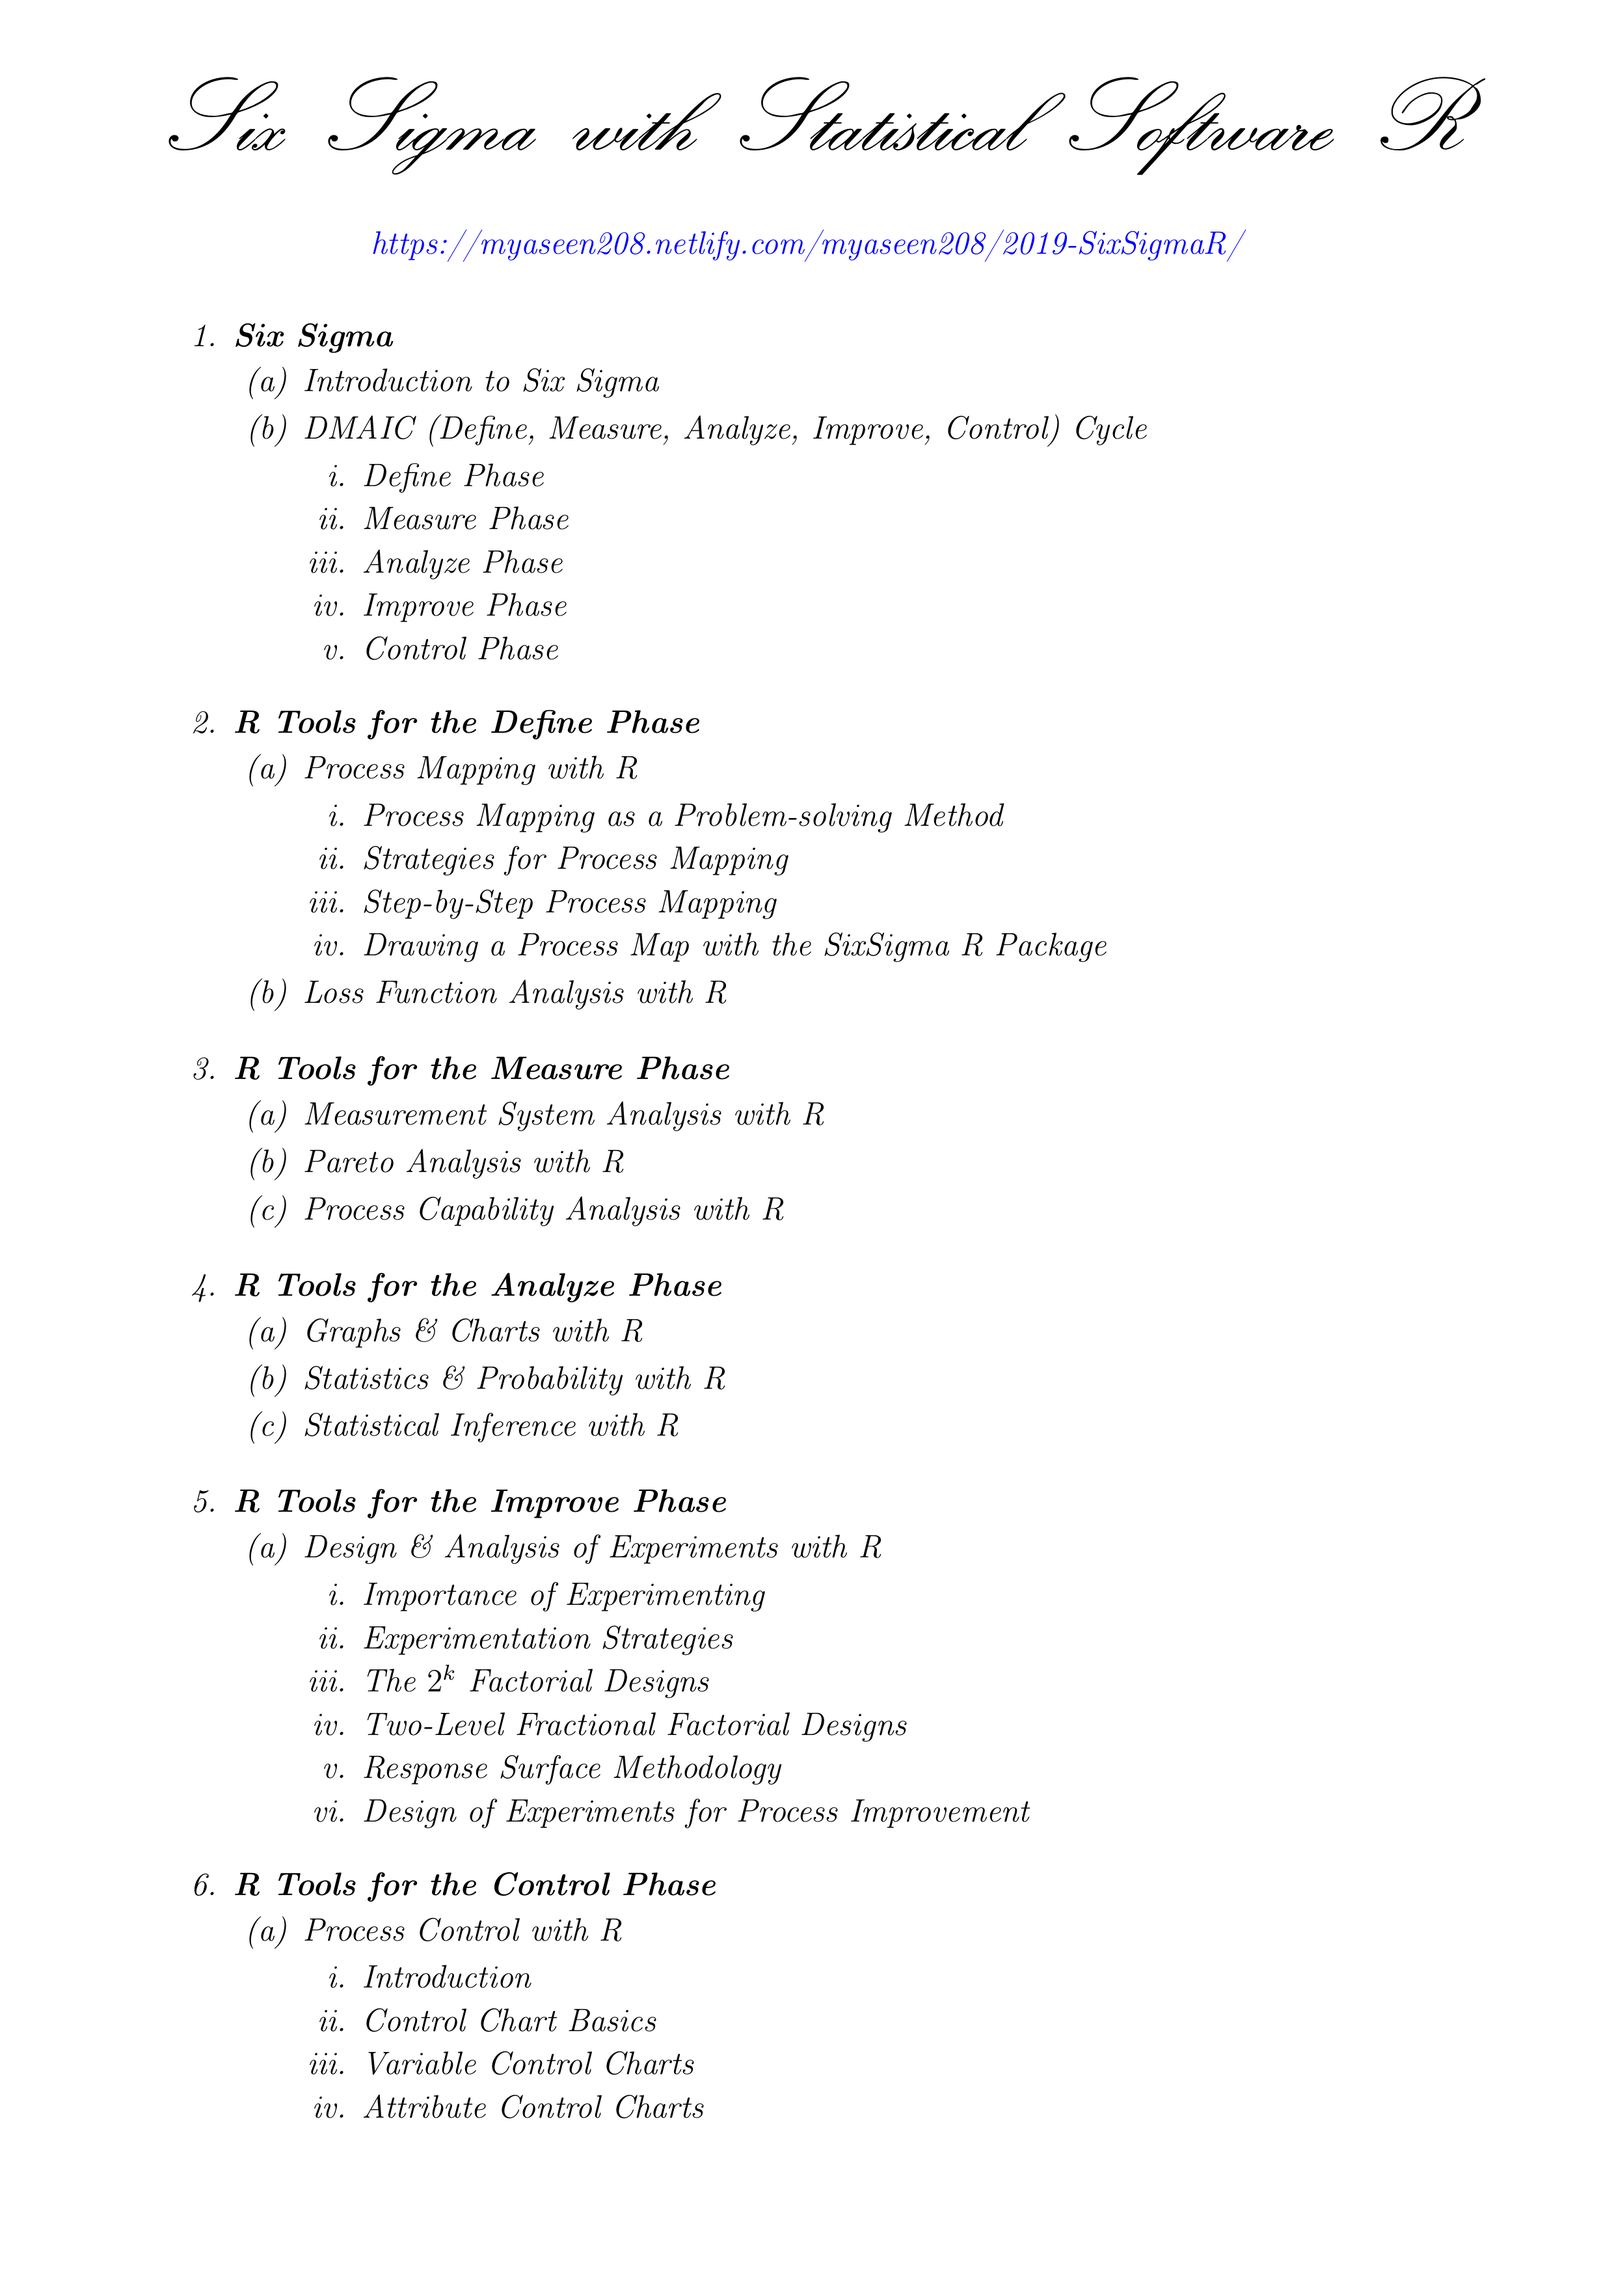
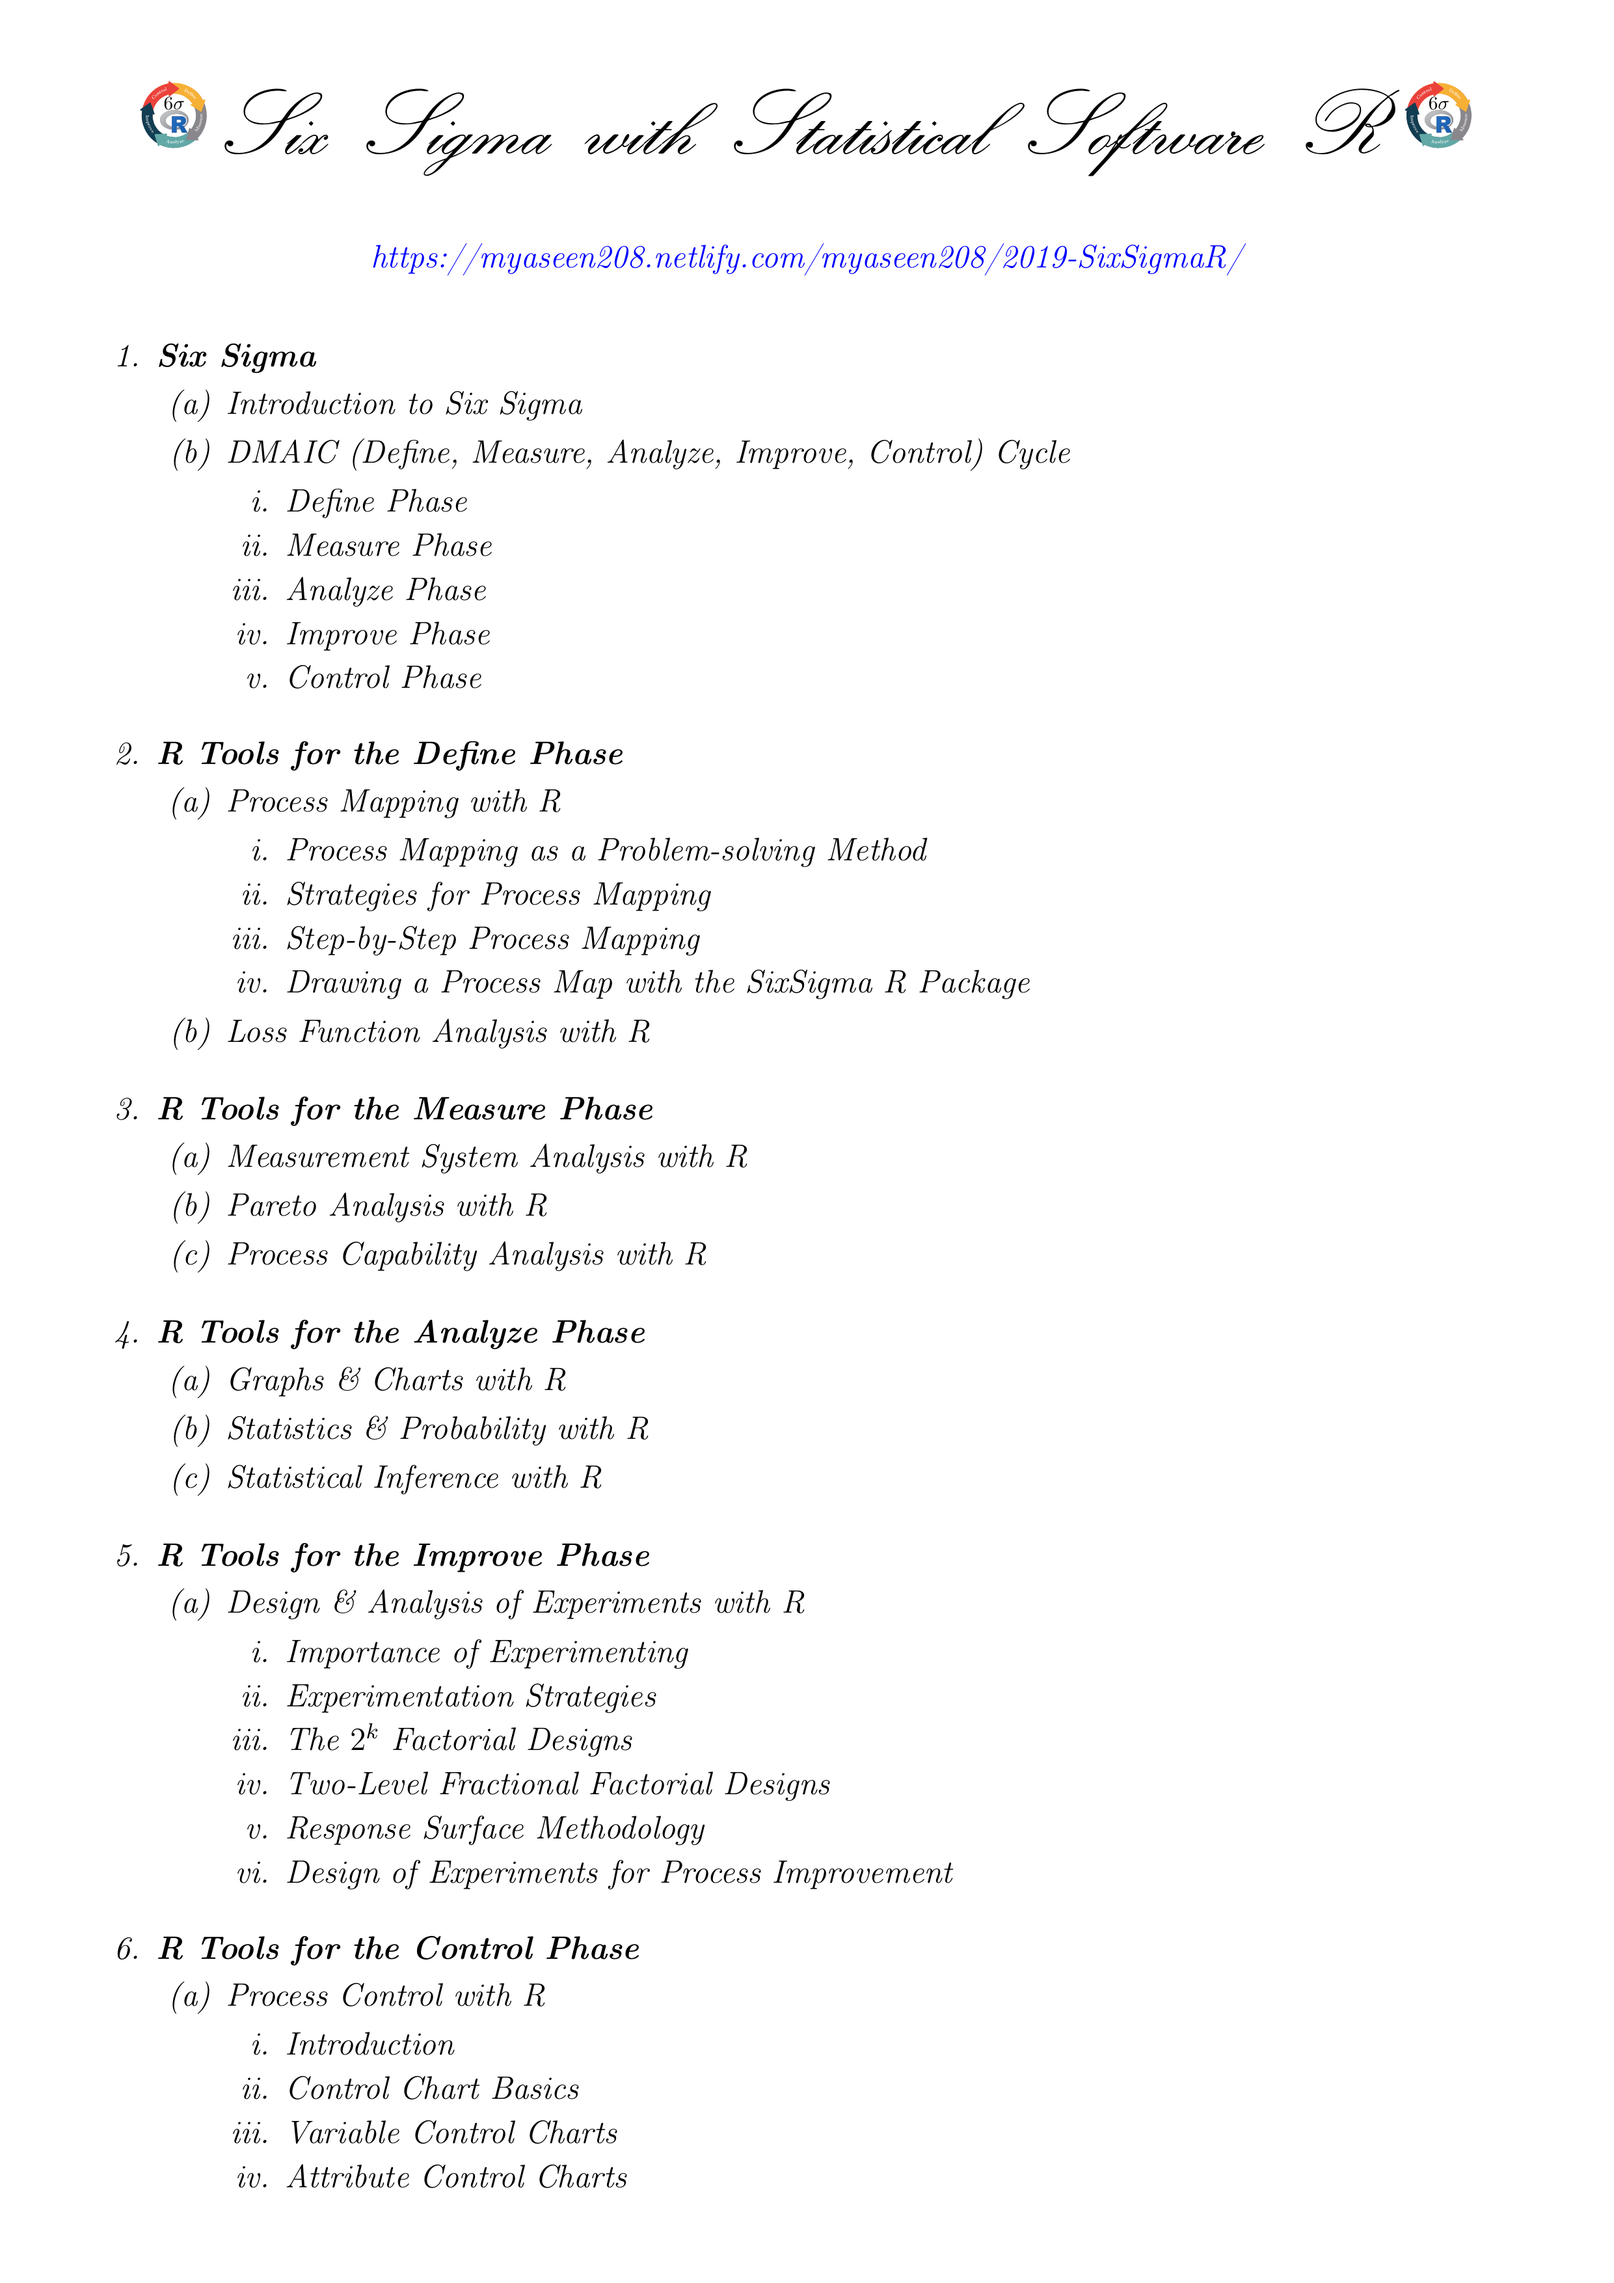
2019-SixSigmaR

diff --git a/public/myaseen208/2019-sixsigmar/index.html b/public/myaseen208/2019-sixsigmar/index.html
@@ -107,7 +107,9 @@
     </div>
 <div class="unit-60">
 
-  <p><img src="/img/2019-SixSigmaR/2019-SixSigmaR.png" /></p>
+  <p><img src="/img/2019-SixSigmaR/SixSigmaR3.png" /></p>
+<p> </p>
+<p><img src="/img/2019-SixSigmaR/2019-SixSigmaR.png" /></p>
 
 
       <meta itemprop="wordCount" content="0">

diff --git a/public/categories/data-science/index.html b/public/categories/data-science/index.html
@@ -277,6 +277,8 @@
 </div>
 
 
+<p><img src="/img/2019-SixSigmaR/SixSigmaR3.png" /></p>
+<p> </p>
 <p><img src="/img/2019-SixSigmaR/2019-SixSigmaR.png" /></p>
 
 	

diff --git a/public/categories/quality-control/index.html b/public/categories/quality-control/index.html
@@ -277,6 +277,8 @@
 </div>
 
 
+<p><img src="/img/2019-SixSigmaR/SixSigmaR3.png" /></p>
+<p> </p>
 <p><img src="/img/2019-SixSigmaR/2019-SixSigmaR.png" /></p>
 
 	

diff --git a/public/categories/r/index.html b/public/categories/r/index.html
@@ -277,6 +277,8 @@
 </div>
 
 
+<p><img src="/img/2019-SixSigmaR/SixSigmaR3.png" /></p>
+<p> </p>
 <p><img src="/img/2019-SixSigmaR/2019-SixSigmaR.png" /></p>
 
 	

diff --git a/public/categories/six-sigma/index.html b/public/categories/six-sigma/index.html
@@ -277,6 +277,8 @@
 </div>
 
 
+<p><img src="/img/2019-SixSigmaR/SixSigmaR3.png" /></p>
+<p> </p>
 <p><img src="/img/2019-SixSigmaR/2019-SixSigmaR.png" /></p>
 
 	

diff --git a/public/categories/statistics/index.html b/public/categories/statistics/index.html
@@ -277,6 +277,8 @@
 </div>
 
 
+<p><img src="/img/2019-SixSigmaR/SixSigmaR3.png" /></p>
+<p> </p>
 <p><img src="/img/2019-SixSigmaR/2019-SixSigmaR.png" /></p>
 
 	

diff --git a/public/index.html b/public/index.html
@@ -106,6 +106,8 @@
 </div>
 
 
+<p><img src="/img/2019-SixSigmaR/SixSigmaR3.png" /></p>
+<p> </p>
 <p><img src="/img/2019-SixSigmaR/2019-SixSigmaR.png" /></p>
 
 	

diff --git a/public/myaseen208/index.html b/public/myaseen208/index.html
@@ -275,6 +275,8 @@
 </div>
 
 
+<p><img src="/img/2019-SixSigmaR/SixSigmaR3.png" /></p>
+<p> </p>
 <p><img src="/img/2019-SixSigmaR/2019-SixSigmaR.png" /></p>
 
 	

diff --git a/content/myaseen208/2019-SixSigmawithR.html b/content/myaseen208/2019-SixSigmawithR.html
@@ -20,4 +20,6 @@ output:
 
 
 
+<p><img src="/img/2019-SixSigmaR/SixSigmaR3.png" /></p>
+<p> </p>
 <p><img src="/img/2019-SixSigmaR/2019-SixSigmaR.png" /></p>
